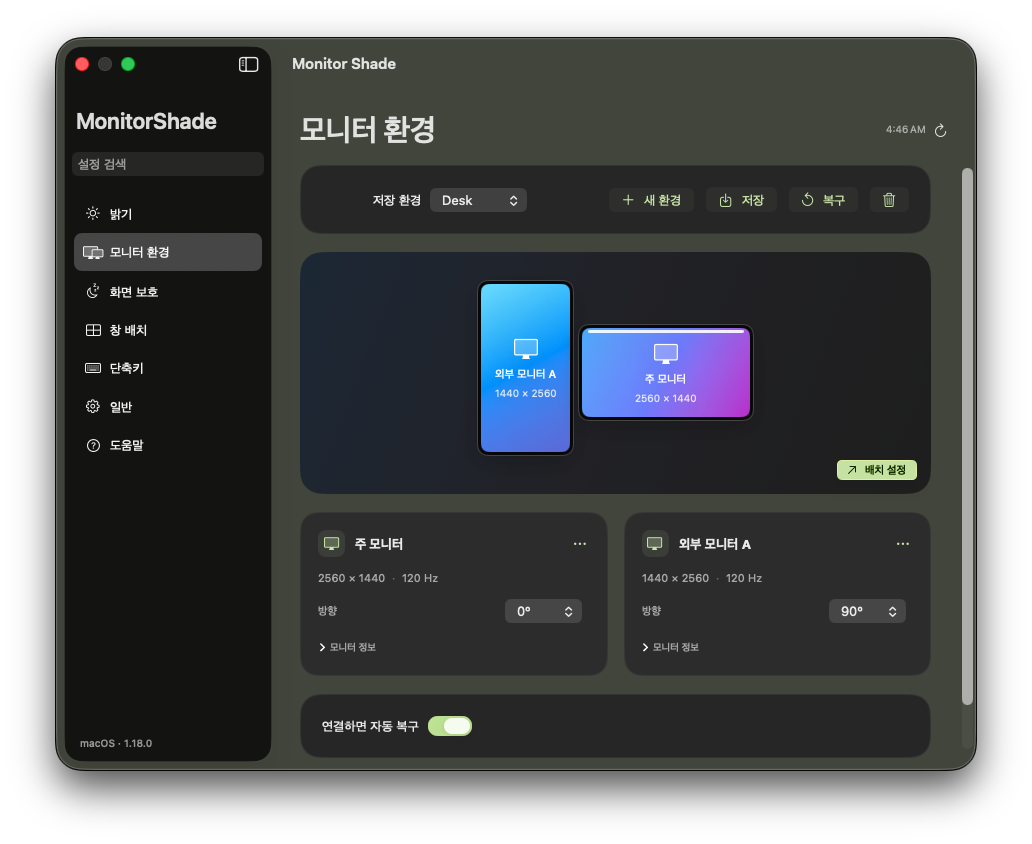
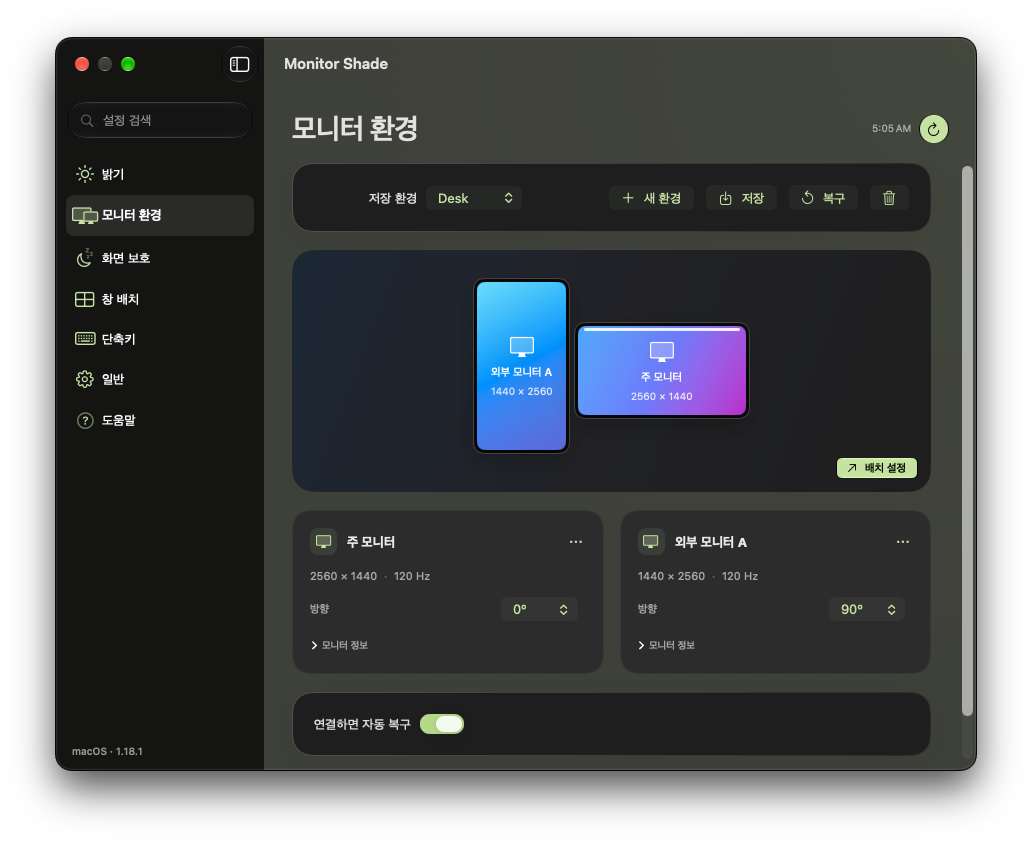
Update Mac UI screenshots and document macOS 26 and 27 verification [skip ci]

diff --git a/macos/VALIDATION.md b/macos/VALIDATION.md
@@ -1,11 +1,11 @@
-# macOS 1.18.0 validation
+# macOS 1.18.1 validation
 
 2026-10-23 (Asia/Seoul).
 
-Built and checked on a GitHub-hosted macOS 26 runner with Xcode 26.6:
-[run 39901966820](https://github.com/iismn/MonitorShade/actions/runs/39901966820).
+Built on the GitHub-hosted macOS 26 runner with Xcode 26.6. The packaged app also ran on macOS 27.0.1 using the `xcode-27` runner:
+[run 39903626836](https://github.com/iismn/MonitorShade/actions/runs/39903626836).
 
-The app source for this package is commit `aa9af4c54e02a1f0c14215ab1108f5127c39b483`. Later README and screenshot commits do not change the executable sources.
+The app source for this package is commit `bbbf60494c2779445c86b4e0f2b28bba319d0276`. Later README and screenshot commits do not change the executable sources.
 
 | Check | Result |
 | --- | --- |
@@ -15,19 +15,21 @@ The app source for this package is commit `aa9af4c54e02a1f0c14215ab1108f5127c39b
 | Bundle plist and macOS 14 deployment target | Passed |
 | Existing profile migration, identity matching, main-display, brightness, DDC parsing and independent idle-timer suite | Passed |
 | New geometry, shortcuts, content comparison, profile-target reconnection and time-palette checks | 133 passed |
-| Native settings-window renders | 7 pages × morning/evening; 14 passed |
+| Native settings-window renders | 7 pages × morning/evening × macOS 26/27; 28 passed |
 | Sidebar visibility in composited window captures | Passed |
 | ZIP contains executable mode and both architectures | Passed |
 | ZIP excludes personal profiles and diagnostics | Passed |
 
 The UI tests use preview monitors. They do not modify hardware, register global shortcuts or load user display profiles. Screenshots are of the test app's own window on the CI runner.
 
+The README images are the app's native macOS 27.0.1 window captures, with preview display data. The duplicate sidebar heading is absent. Morning and evening brightness cards were visually checked for aligned edges, readable controls and the dot readout.
+
[1 lines of base64/hex data omitted]
 
 Package SHA-256:
 
 ```text
-c4a54ee04336f020ba668c82bba9d0d54b6dd36f7854d51bf11e744f70beb5b4  MonitorShade-macOS.zip
+f6da4ecf6447d680f05d333233dfb1e56d0503b49ca82cbae77cd8acdb9a3bd8  MonitorShade-macOS.zip
 ```
 
 Physical monitor DDC/CI writes, cable reconnection, rotation, login startup, permission approval, screen-content capture and third-party window movement were not exercised on the user's Mac in this run. The supplied app's earlier hardware validation is reference evidence; it is not a substitute for testing this integration on that hardware. The app is not Apple notarized.

diff --git a/macos/README.md b/macos/README.md
@@ -65,3 +65,9 @@ The app does not need Edge, WebView2, .NET or a browser runtime. Its panels use 
 | `MacVerification.swift` | Hardware-free regression checks and preview rendering |
 
 `.github/workflows/macos.yml` builds on a Mac runner, checks the universal binary and signature, runs self-tests, renders the UI and packages a ZIP. Hardware-specific operations require validation on the user's Mac and monitors.
+
+## Interface
+
+The window uses the system sidebar and a single window title. Search, brightness sync and the linked brightness controls use native Liquid Glass on macOS 26 or later. Content cards use standard materials. The linked card blends green daytime colors into orange, pink and pale gray in the evening. The native window backdrop stays live when the window moves.
+
+The design follows Apple's [Materials guidance](https://developer.apple.com/design/human-interface-guidelines/materials) and [macOS 27 design updates](https://developer.apple.com/videos/play/wwdc2026/289/), with the soft gradients and dot readout from the supplied [visual reference](https://www.instagram.com/p/DeKDxK1MhzI/). System Reduce Transparency and Increase Contrast settings affect the materials. Page transitions honor Reduce Motion.

diff --git a/README.md b/README.md
@@ -6,11 +6,11 @@
 
 <img src="docs/images/macos-evening-brightness.png" alt="MonitorShade for macOS — brightness sync and monitor controls" width="1120">
 
-<sub>Native app UI with preview monitors.</sub>
+<sub>macOS 27.0.1 · Native app UI with preview monitors.</sub>
 
 <br><br>
 
-[**Download for macOS**](https://github.com/iismn/MonitorShade/releases/download/mac-v1.18.0/MonitorShade-macOS.zip)
+[**Download for macOS**](https://github.com/iismn/MonitorShade/releases/download/mac-v1.18.1/MonitorShade-macOS.zip)
 
 **macOS 14+ · Apple silicon / Intel · Native app**
 
@@ -68,7 +68,7 @@ Edit all bindings in **Shortcuts**. Window control needs Accessibility permissio
 | :---: | :---: |
 | ![Morning native Mac UI](docs/images/macos-morning-brightness.png) | ![Evening native Mac UI](docs/images/macos-evening-brightness.png) |
 
-Live macOS blur, time palettes, warm evening cards and a glowing dot readout. No Edge, WebView2, .NET or separate browser runtime.
+Live desktop blur, time palettes and a glowing dot readout. Native Liquid Glass search and controls on macOS 26 or later, with macOS 27 sidebar refinements. Earlier systems use standard materials. No separate browser runtime.
 
 <br>
 
